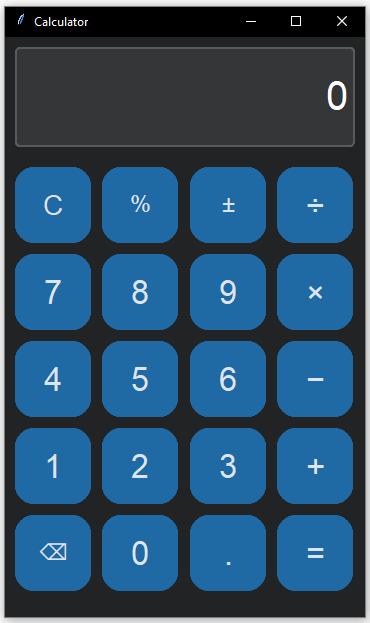
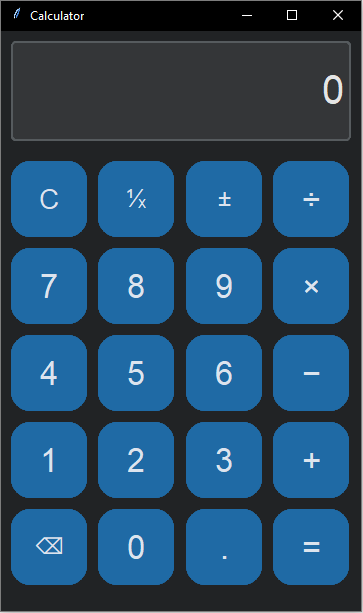
Updated button logic

diff --git a/calculator.py b/calculator.py
@@ -1,3 +1,4 @@
+from decimal import DivisionByZero
 import tkinter as tk
 import customtkinter as ck
 
@@ -27,6 +28,7 @@ class Calculator:
         self.root.geometry(f"{WIDTH}x{HEIGHT}")
 
         self.number_buttons = {}
+        self.operator_buttons = {}
         self.operators = {"/":"\u00F7","*":"\u00D7", "-":"\u2212", "+":"+", "=":"="}
         self.bottom_buttons = [0, "."]
         self.number = ""
@@ -37,7 +39,7 @@ class Calculator:
         self.create_operator_button()
         self.create_clear_button()
         self.create_backspace_button()
-        self.create_percentage_button()
+        self.create_fraction_button()
         self.create_plus_minus_button()
 
 
@@ -55,7 +57,7 @@ class Calculator:
 
     def update_display(self, digit):
         self.number += str(digit)
-       
+      
         # Delete leading zero if it is the first digit entered
         if self.number[0] == "0" and len(self.number) > 1 and "." not in self.number:
             self.number = str(digit)
@@ -76,26 +78,35 @@ class Calculator:
 
     def calculate(self, operator):
         self.equation += self.number
-        if self.equation[-1] not in list(self.operators.keys())[:-1]:
-            self.equation += operator
-        else:
-            # Replace existing operator with the most recent operator
-            self.equation = self.equation[:-1] + operator
-        self.entry.delete(0, tk.END)
-        self.number = ""
+        try:
+            if len(self.equation) != 0:
+                if self.equation[-1] not in list(self.operators.keys())[:-1]:
+                    self.equation += operator
+                else:
+                    # Replace existing operator with the most recent operator
+                    self.equation = self.equation[:-1] + operator
+                self.entry.delete(0, tk.END)
+                self.number = ""
 
-        # Calculate final answer and remove floating point from integers
-        if operator != "=":
-            self.equation = str(eval(self.equation[:-1])) + operator
-            if self.equation[-3:-1] == ".0":
-                self.equation = self.equation.replace(".0", "")            
-            self.entry.insert(0, self.equation[:-1])
-        else:
-            self.equation = str(eval(self.equation[:-1]))
-            if self.equation[:-2] == ".0":
-                self.equation = self.equation.replace(".0", "")            
-            self.entry.insert(0, self.equation)
-            self.equation = ""
+                # Calculate final answer and remove floating point from integers
+                if operator != "=":
+                    self.equation = str(eval(self.equation[:-1])) + operator
+                    if self.equation[-3:-1] == ".0":
+                        self.equation = self.equation.replace(".0", "")            
+                    self.entry.insert(0, self.equation[:-1])
+
+                else:
+                    self.equation = str(eval(self.equation[:-1]))
+                    self.equation = self.remove_floating_point(self.equation)       
+                    self.entry.insert(0, self.equation)
+                    self.equation = ""
+            # Reset display
+            elif len(self.equation) == 0 and operator == "=":
+                self.entry.delete(0, tk.END)
+                self.entry.insert(0, "0")
+        except ZeroDivisionError:
+            self.entry.delete(0, tk.END)
+            self.entry.insert(0, "Error")
 
 
     def digit_position(self):
@@ -126,13 +137,12 @@ class Calculator:
 
 
     def create_operator_button(self):
-        operator_button = {}
         count_x = 1
         for operator, value in self.operators.items():
-            operator_button[operator] = ck.CTkButton(self.root, text=f"{value}", width=button_size, height=button_size, 
+            self.operator_buttons[operator] = ck.CTkButton(self.root, text=f"{value}", width=button_size, height=button_size, 
                                                      corner_radius=BUTTON_CORNER_RADIUS, text_font=OPERATOR_FONT, 
                                                      command=lambda operator=operator: self.calculate(operator))
-            operator_button[operator].grid(row=count_x, column=3, padx=(BUTTON_GAP, 0), pady=(BUTTON_GAP, 0))
+            self.operator_buttons[operator].grid(row=count_x, column=3, padx=(BUTTON_GAP, 0), pady=(BUTTON_GAP, 0))
             count_x += 1
 
 
@@ -153,16 +163,48 @@ class Calculator:
         button.grid(row=5, column=0, padx=(BUTTON_GAP, 0), pady=(BUTTON_GAP, 0))
 
 
-    def create_percentage_button(self):
-        button = ck.CTkButton(self.root, text=f"%", width=button_size, height=button_size, 
-                              corner_radius=BUTTON_CORNER_RADIUS, text_font=SPECIAL_FONT, command=self.backspace_display)
+    def fraction(self):
+        self.number = self.entry.get()
+        try:
+            if len(self.number) != 0:
+                self.number = 1 / float(self.number)
+                self.number = self.remove_floating_point(self.number)
+                self.entry.delete(0, tk.END)
+                self.entry.insert(0, self.number)
+                self.number = ""
+        except ZeroDivisionError:
+            self.entry.delete(0, tk.END)
+            self.entry.insert(0, "Error")
+
+
+    def create_fraction_button(self):
+        button = ck.CTkButton(self.root, text=f"\u00b9\u2044\u2093", width=button_size, height=button_size, 
+                              corner_radius=BUTTON_CORNER_RADIUS, text_font=SPECIAL_FONT, command=self.fraction)
         button.grid(row=1, column=1, padx=(BUTTON_GAP, 0), pady=(BUTTON_GAP, 0))
+
+
+    def plus_minus(self):
+        self.number = self.entry.get()
+        if len(self.number) != 0:
+            self.number = float(self.number)* -1
+            self.number = self.remove_floating_point(self.number)
+            self.number = str(self.number)
+            self.entry.delete(0, tk.END)
+            self.entry.insert(0, self.number)
 
 
     def create_plus_minus_button(self):
         button = ck.CTkButton(self.root, text=f"\u00B1", width=button_size, height=button_size, 
-                              corner_radius=BUTTON_CORNER_RADIUS, text_font=SPECIAL_FONT, command=self.backspace_display)
+                              corner_radius=BUTTON_CORNER_RADIUS, text_font=SPECIAL_FONT, command=self.plus_minus)
         button.grid(row=1, column=2, padx=(BUTTON_GAP, 0), pady=(BUTTON_GAP, 0))
+
+
+    def remove_floating_point(self, number):
+        if str(number)[-2:] == ".0":
+            number = str(number)[:-2] 
+        else:
+            number = str(number)
+        return number
 
 
 if __name__ == "__main__":
